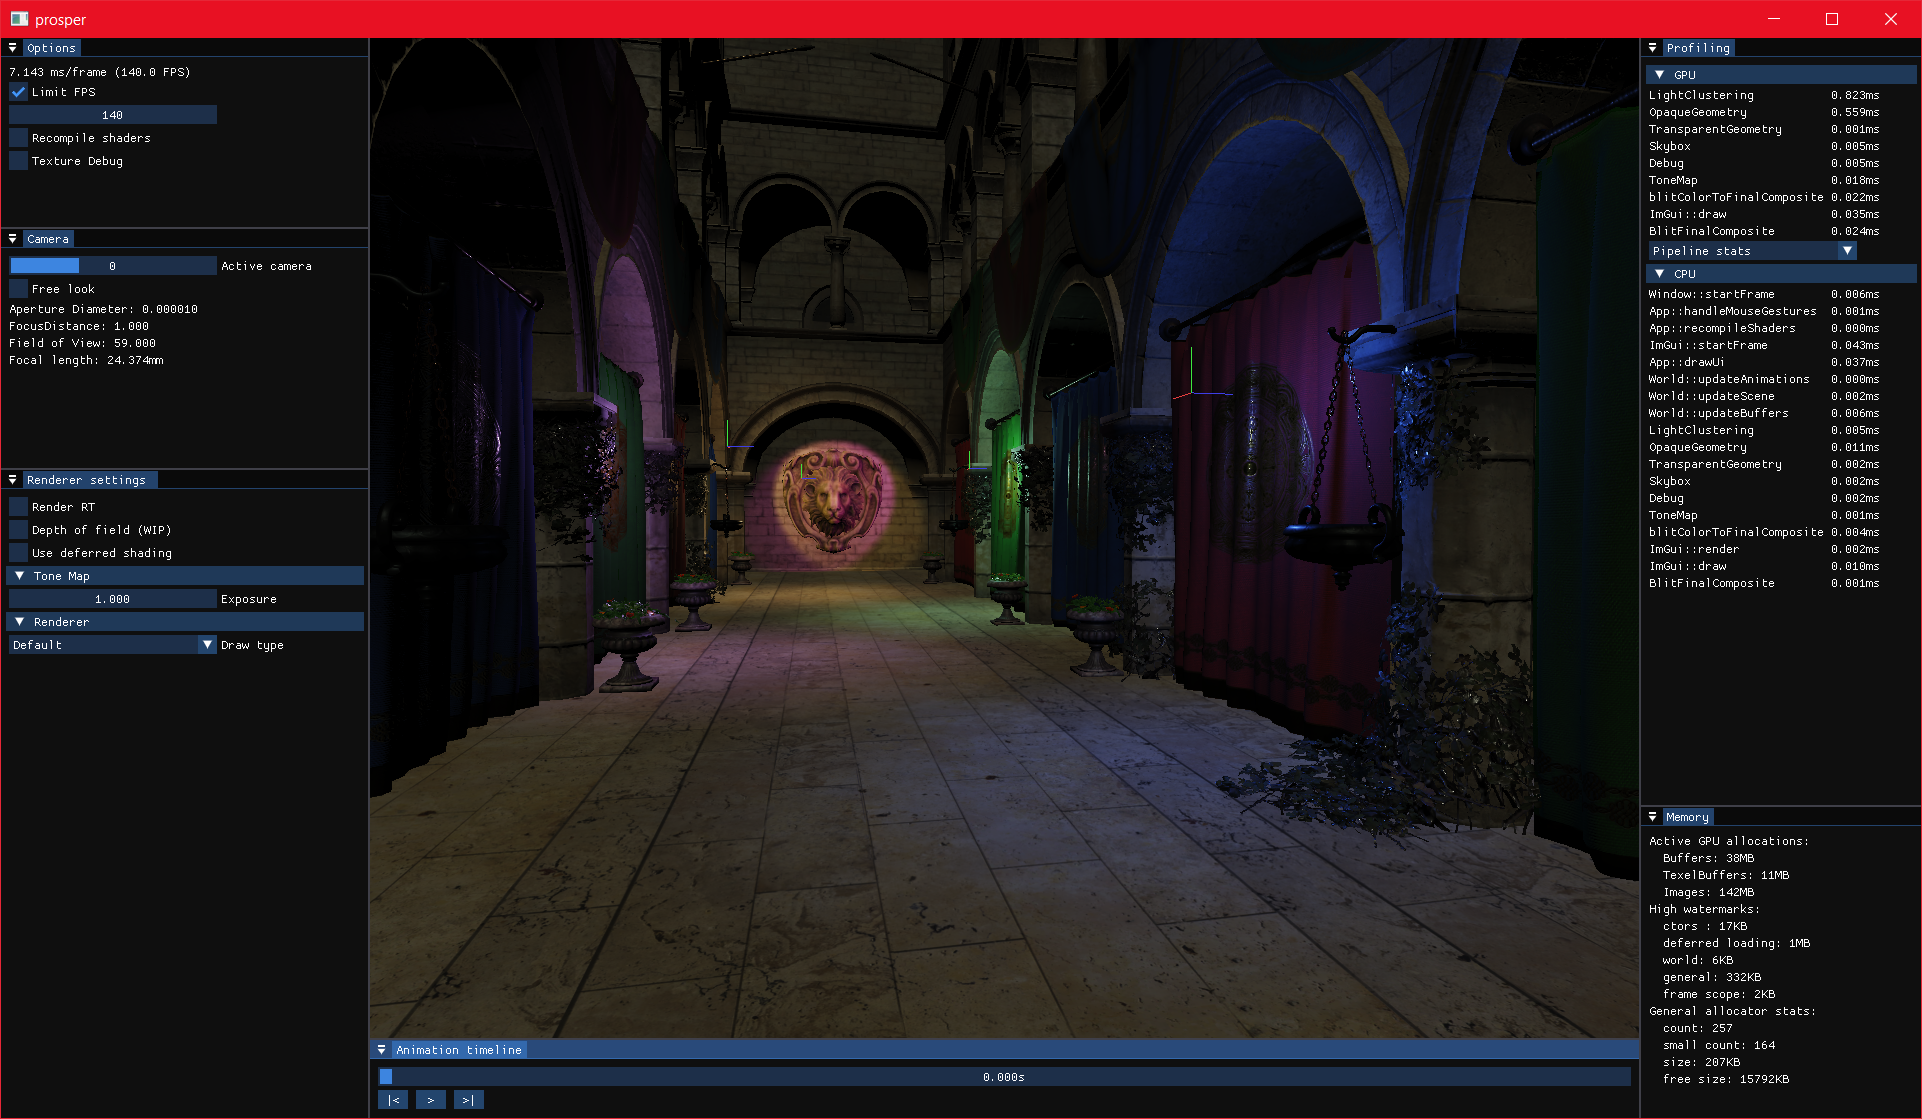
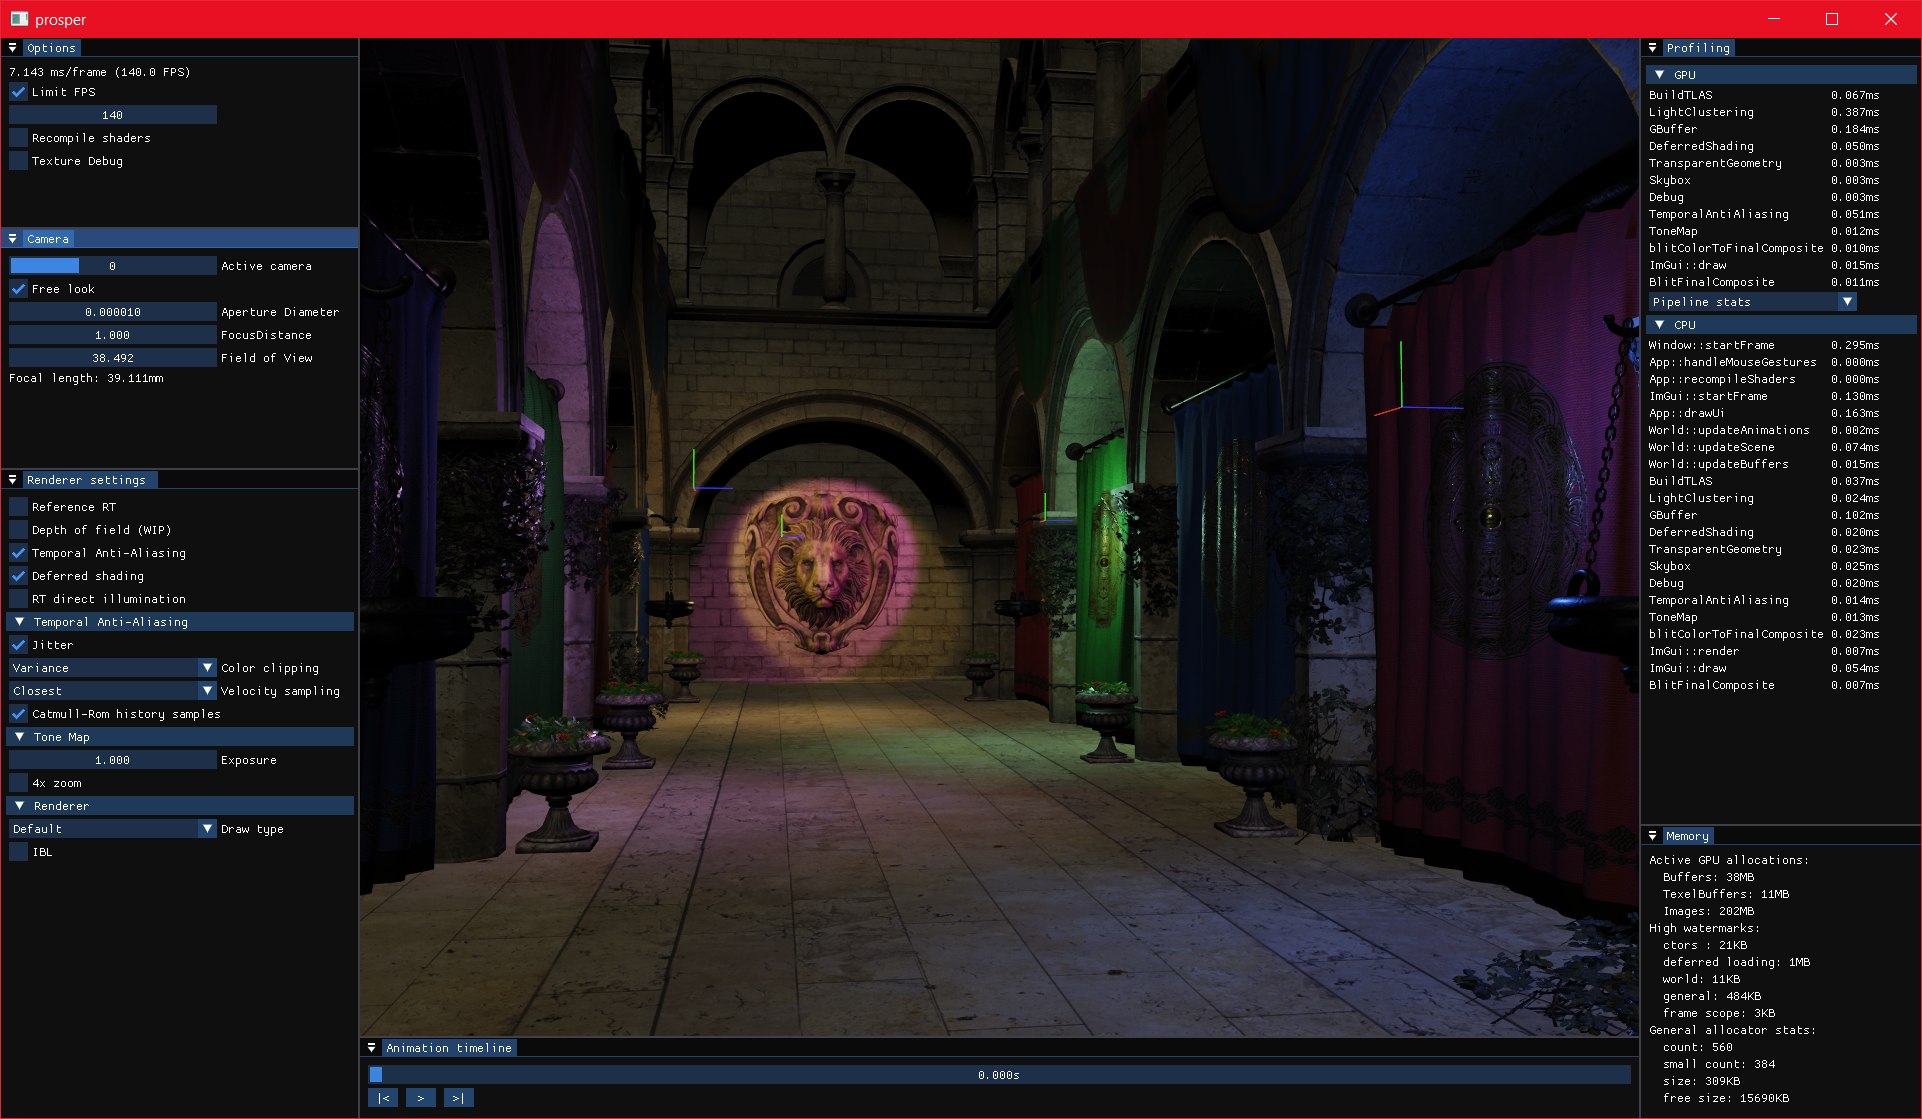
Update readme and screenshot

diff --git a/readme.md b/readme.md
@@ -27,6 +27,8 @@ Vulkan renderer spun off from following https://vulkan-tutorial.com/. Work of [S
   - Stochastic transparency
 - Depth of Field
   - Work in progress based on [A Life of a Bokeh](https://www.advances.realtimerendering.com/s2018/index.htm) among other sources
+- Temporal Anti-Aliasing
+  - Includes some of the 'usual' tricks for removing ghosting, blurring and flicker
 - Animation support for transformations
 - Polling shader recompilation
 - Render texture debug view
